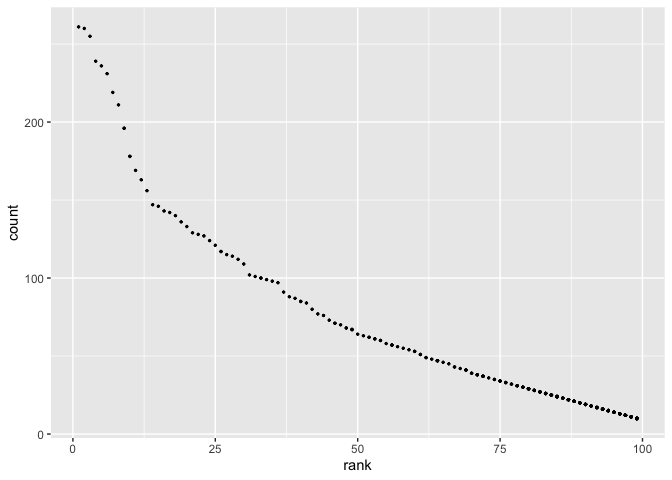
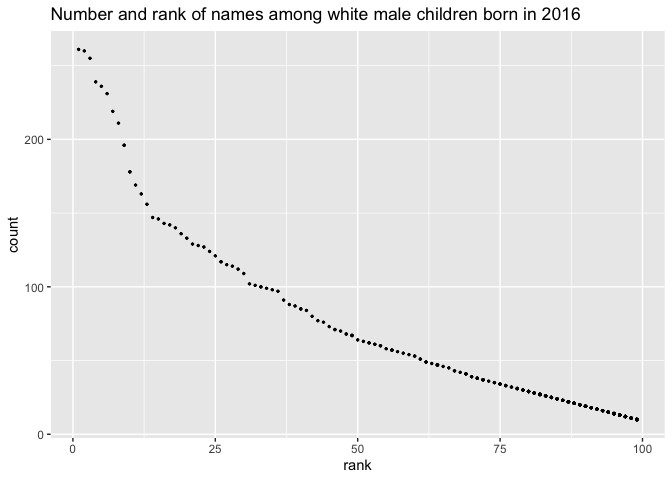
Worked on Q3 and some of 2 writing; realized I really didn't understand inline code but will address that next !

diff --git a/p8105_hw2_lcp2148.md b/p8105_hw2_lcp2148.md
@@ -75,10 +75,10 @@ precipfinal = left_join(precipboth, dfmnth, by = "month") %>%
   select(-c(month)) %>%  rename(month = mnth)
 ```
 
-Key variables in Mr Trash Wheel include weight in tons, volume in cubic
-years, homes powers, and number of trash items collected such as plastic
-bottles, cigarette butts, and grocery bags (and of course, sports
-balls). `summary(mr_trash)` The median weight was 3.380 tons, and the
+Key variables in Mr Trash Wheel include dumpster, month, year, date,
+weight\_tons, volume\_cubic\_yards, plastic\_bottles, polystyrene,
+cigarette\_butts, glass\_bottles, grocery\_bags, chip\_bags,
+sports\_balls, homes\_powered. The median weight was 3.380 tons, and the
 mean was 9.037 tons. `print(mr_trash)` The number of observations in
 this data set is 456. The median number of sports balls in a dumpster in
 2019 `if (year == 2019){print median(pull(mr_trash, sports_balls))}`
@@ -108,10 +108,6 @@ ensuring that key variables take the same values.
 
 Join the datasets by merging snp into pols, and merging unemployment
 into the result.
-
-Write a short paragraph about these datasets. Explain briefly what each
-dataset contained, and describe the resulting dataset (e.g. give the
-dimension, range of years, and names of key variables).
 
 ``` r
 pols_month = read_csv(file = "./hw2_data/pols-month.csv") %>%
@@ -196,13 +192,15 @@ merged_538 =
   rename(month = mnth)
 ```
 
+Write a short paragraph about these datasets. Explain briefly what each
+dataset contained, and describe the resulting dataset (e.g. give the
+dimension, range of years, and names of key variables).
+
 ## Problem 3
 
-Next, I’m importing the baby names data. Task- data cleaning : names of
-a categorical predictor??? and the case structure of string variables
-(child’s first name) changed over time; some rows seem duplicated, and
-these will need to be removed (hint: google something like “dplyr remove
-duplicate rows” to get started
+Next, I’m importing the baby names data and cleaning by correcting
+ethnicity names typos to match, making the case structure of the name
+variable consisten, and removing the duplicate rows.
 
 ``` r
 baby_names = read_csv(file = "./hw2_data/Popular_Baby_Names.csv", col_types = "dcccdd")  %>%
@@ -217,22 +215,18 @@ baby_names$ethnicity[baby_names$ethnicity == "black non hisp"] = "black non hisp
 baby_names$ethnicity[baby_names$ethnicity == "white non hisp"] = "white non hispanic"
 ```
 
-Produce a well-structured, reader-friendly table showing the rank in
-popularity of the name “Olivia” as a female baby name over time; this
-should have rows for ethnicities and columns for year.
+Next, I make a table using `pivot_wider` showing the rank in popularity
+of the name “Olivia” as a female baby name over time including rows for
+ethnicities and columns for year.
 
-Produce a similar table showing the most popular name among male
-children over time.
+I then made a table using a similar process showing the most popular
+name among male children over time.
 
-Finally, for male, white non-hispanic children born in 2016, produce a
-scatter plot showing the number of children with a name (y axis) against
-the rank in popularity of that name (x axis).
-
-    ## %>%
-
-## knitr::kable(format = “pipe”, col.names = gsub(“\[\_\]”, " “, names, caption =”Popularity of \#\#the name Olivia over time")
-
-\#\#
+For male, white non-hispanic children born in 2016, I used `ggplot` to
+make a scatter plot showing the number of children with a name against
+the rank in popularity of that name. \#\# %&gt;% \#\#knitr::kable(format
+= “pipe”, col.names = gsub(“\[\_\]”, " “, names, caption =”Popularity of
+\#\#the name Olivia over time")
 
 ``` r
 baby_names %>%  
@@ -273,7 +267,7 @@ baby_names %>%
     ## 4 male   white non hispanic          1 micha… joseph david  joseph david  joseph
 
 ``` r
-baby_names %>% filter(ethnicity == "white non hispanic", year_of_birth == 2016, gender == "male")  %>% ggplot(aes(rank, count)) + geom_point(size = 0.5) 
+baby_names %>% filter(ethnicity == "white non hispanic", year_of_birth == 2016, gender == "male")  %>% ggplot(aes(rank, count)) + geom_point(size = 0.5) + ggtitle("Number and rank of names among white male children born in 2016")
 ```
 
 ![](p8105_hw2_lcp2148_files/figure-gfm/baby_figures-1.png)<!-- -->
